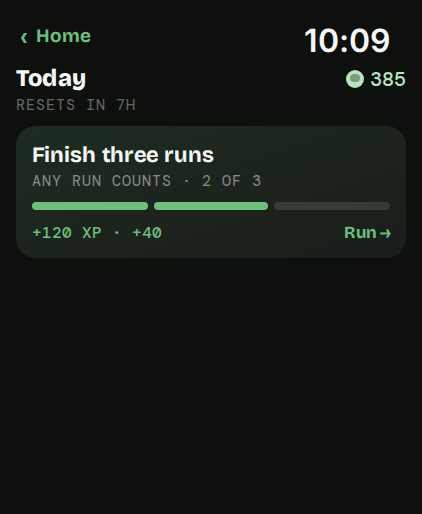
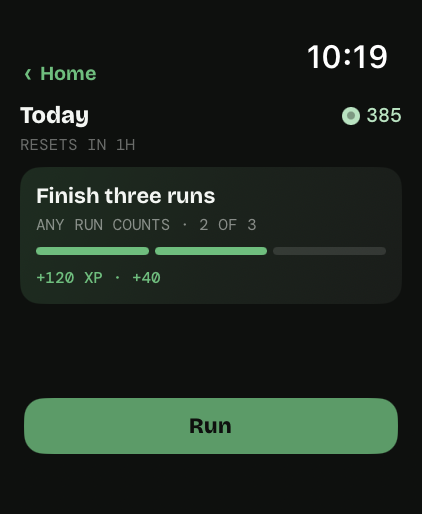
nav changes

diff --git a/Dinosaur Watch App/ContentView.swift b/Dinosaur Watch App/ContentView.swift
@@ -21,6 +21,41 @@ struct ContentView: View {
     @AppStorage("currentStreak") private var currentStreak = 0
     @AppStorage("lastPlayedDate") private var lastPlayedDate: Double = 0
 
+    /// Debug screenshot staging only — a Kin detail page opened directly, without the Market grid.
+    @State private var screenshotKin: Kin?
+
+    init() {
+        #if DEBUG
+        if let scene = ScreenshotScene.current {
+            let state = GameState()
+            state.phase = .ready
+            switch scene {
+            case .home:
+                break
+            case .quest:
+                _showQuest = State(initialValue: true)
+            case .jadepaw:
+                _screenshotKin = State(initialValue: .jadepaw)
+            case .runEnded:
+                state.phase = .gameOver
+                state.score = ScreenshotScene.runScore
+                state.shootsCollected = ScreenshotScene.runShoots
+                // Lands the run in winter, the 4th season segment.
+                state.distanceTraveled = CGFloat(3 * GameConstants.seasonSegmentMeters * 10)
+                _runDurationSeconds = State(initialValue: ScreenshotScene.runSeconds)
+                _lastGameReward = State(initialValue: RewardCalculator.calculate(
+                    score: ScreenshotScene.runScore,
+                    shootsCollected: ScreenshotScene.runShoots,
+                    streak: 5,
+                    isNewHighScore: false,
+                    lastDailyBonusDate: Date().timeIntervalSince1970
+                ))
+            }
+            _gameState = State(initialValue: state)
+        }
+        #endif
+    }
+
     var body: some View {
         ZStack {
             switch gameState.phase {
@@ -93,6 +128,11 @@ struct ContentView: View {
                         startCountdown()
                     }
                 )
+            }
+
+            if let kin = screenshotKin {
+                KinDetailView(kin: kin, playerDataManager: playerDataManager, onBack: { screenshotKin = nil })
+                    .background(PandaColor.ink.ignoresSafeArea())
             }
         }
         .onChange(of: gameState.phase) { _, newPhase in

diff --git a/Dinosaur Watch App/Utilities/ScreenshotMode.swift b/Dinosaur Watch App/Utilities/ScreenshotMode.swift
@@ -1,0 +1,56 @@
+import SwiftUI
+
+extension View {
+    /// In screenshot mode, starts a scroll view at `y` (0 = top, 1 = bottom) so content clears
+    /// the bottom bar (simctl can't scroll). A no-op otherwise, and compiled out of release builds.
+    func screenshotScrollAnchor(y: CGFloat) -> some View {
+        #if DEBUG
+        defaultScrollAnchor(ScreenshotScene.current == nil ? .top : UnitPoint(x: 0.5, y: y))
+        #else
+        self
+        #endif
+    }
+}
+
+#if DEBUG
+
+/// Debug-only App Store screenshot staging. Launch with `-screenshot <scene>` (e.g. via
+/// `xcrun simctl launch <device> com.a6enterprises.Dinosaur.watchkitapp -screenshot quest`)
+/// to seed a consistent demo profile and open straight onto that screen.
+enum ScreenshotScene: String {
+    case home, quest, jadepaw, runEnded
+
+    static let current: ScreenshotScene? = {
+        let args = ProcessInfo.processInfo.arguments
+        guard let i = args.firstIndex(of: "-screenshot"), i + 1 < args.count else { return nil }
+        return ScreenshotScene(rawValue: args[i + 1])
+    }()
+
+    /// Demo run shown on the Run Ended screen.
+    static let runScore = 468
+    static let runShoots = 17
+    static let runSeconds = 38
+
+    /// Writes the demo profile into UserDefaults. Must run before ContentView reads storage.
+    static func seedDefaults() {
+        let defaults = UserDefaults.standard
+        let now = Date().timeIntervalSince1970
+        defaults.set(842, forKey: "highScore")
+        defaults.set(5, forKey: "currentStreak")
+        defaults.set(now, forKey: "lastPlayedDate")
+
+        var data = PlayerData()
+        data.coins = 385
+        data.totalXP = 2050 // LV 7
+        data.gamesPlayed = 64
+        data.ownedKin = [Kin.panda.rawValue, Kin.reedpaw.rawValue]
+        data.ownedWorlds = [World.bambooGrove.rawValue, World.mistTerraces.rawValue, World.snowPass.rawValue]
+        data.lastDailyBonusDate = now
+        data.dailyQuestDate = now
+        data.dailyQuestProgress = 2
+        if let encoded = try? JSONEncoder().encode(data) {
+            defaults.set(encoded, forKey: "playerData")
+        }
+    }
+}
+#endif

diff --git a/Dinosaur Watch App/Views/Shop/MarketDetailViews.swift b/Dinosaur Watch App/Views/Shop/MarketDetailViews.swift
@@ -29,6 +29,7 @@ struct KinDetailView: View {
         ScrollView {
         kinDetailBody(data: data, isOwned: isOwned, isEquipped: isEquipped, hasLevel: hasLevel, hasWorld: hasWorld, canPurchase: canPurchase)
         }
+        .screenshotScrollAnchor(y: 0.72)
         .bottomBar {
             kinActions(data: data, isOwned: isOwned, isEquipped: isEquipped, hasLevel: hasLevel, hasWorld: hasWorld, canPurchase: canPurchase)
         }

diff --git a/Dinosaur Watch App/DinosaurApp.swift b/Dinosaur Watch App/DinosaurApp.swift
@@ -9,6 +9,14 @@ import SwiftUI
 
 @main
 struct Dinosaur_Watch_AppApp: App {
+    init() {
+        #if DEBUG
+        if ScreenshotScene.current != nil {
+            ScreenshotScene.seedDefaults()
+        }
+        #endif
+    }
+
     var body: some Scene {
         WindowGroup {
             ContentView()

diff --git a/Dinosaur Watch App/Views/GameOverView.swift b/Dinosaur Watch App/Views/GameOverView.swift
@@ -28,6 +28,7 @@ struct GameOverView: View {
         ScrollView {
             innerContent
         }
+        .screenshotScrollAnchor(y: 0.65)
         .bottomBar {
             actionRow
         }
